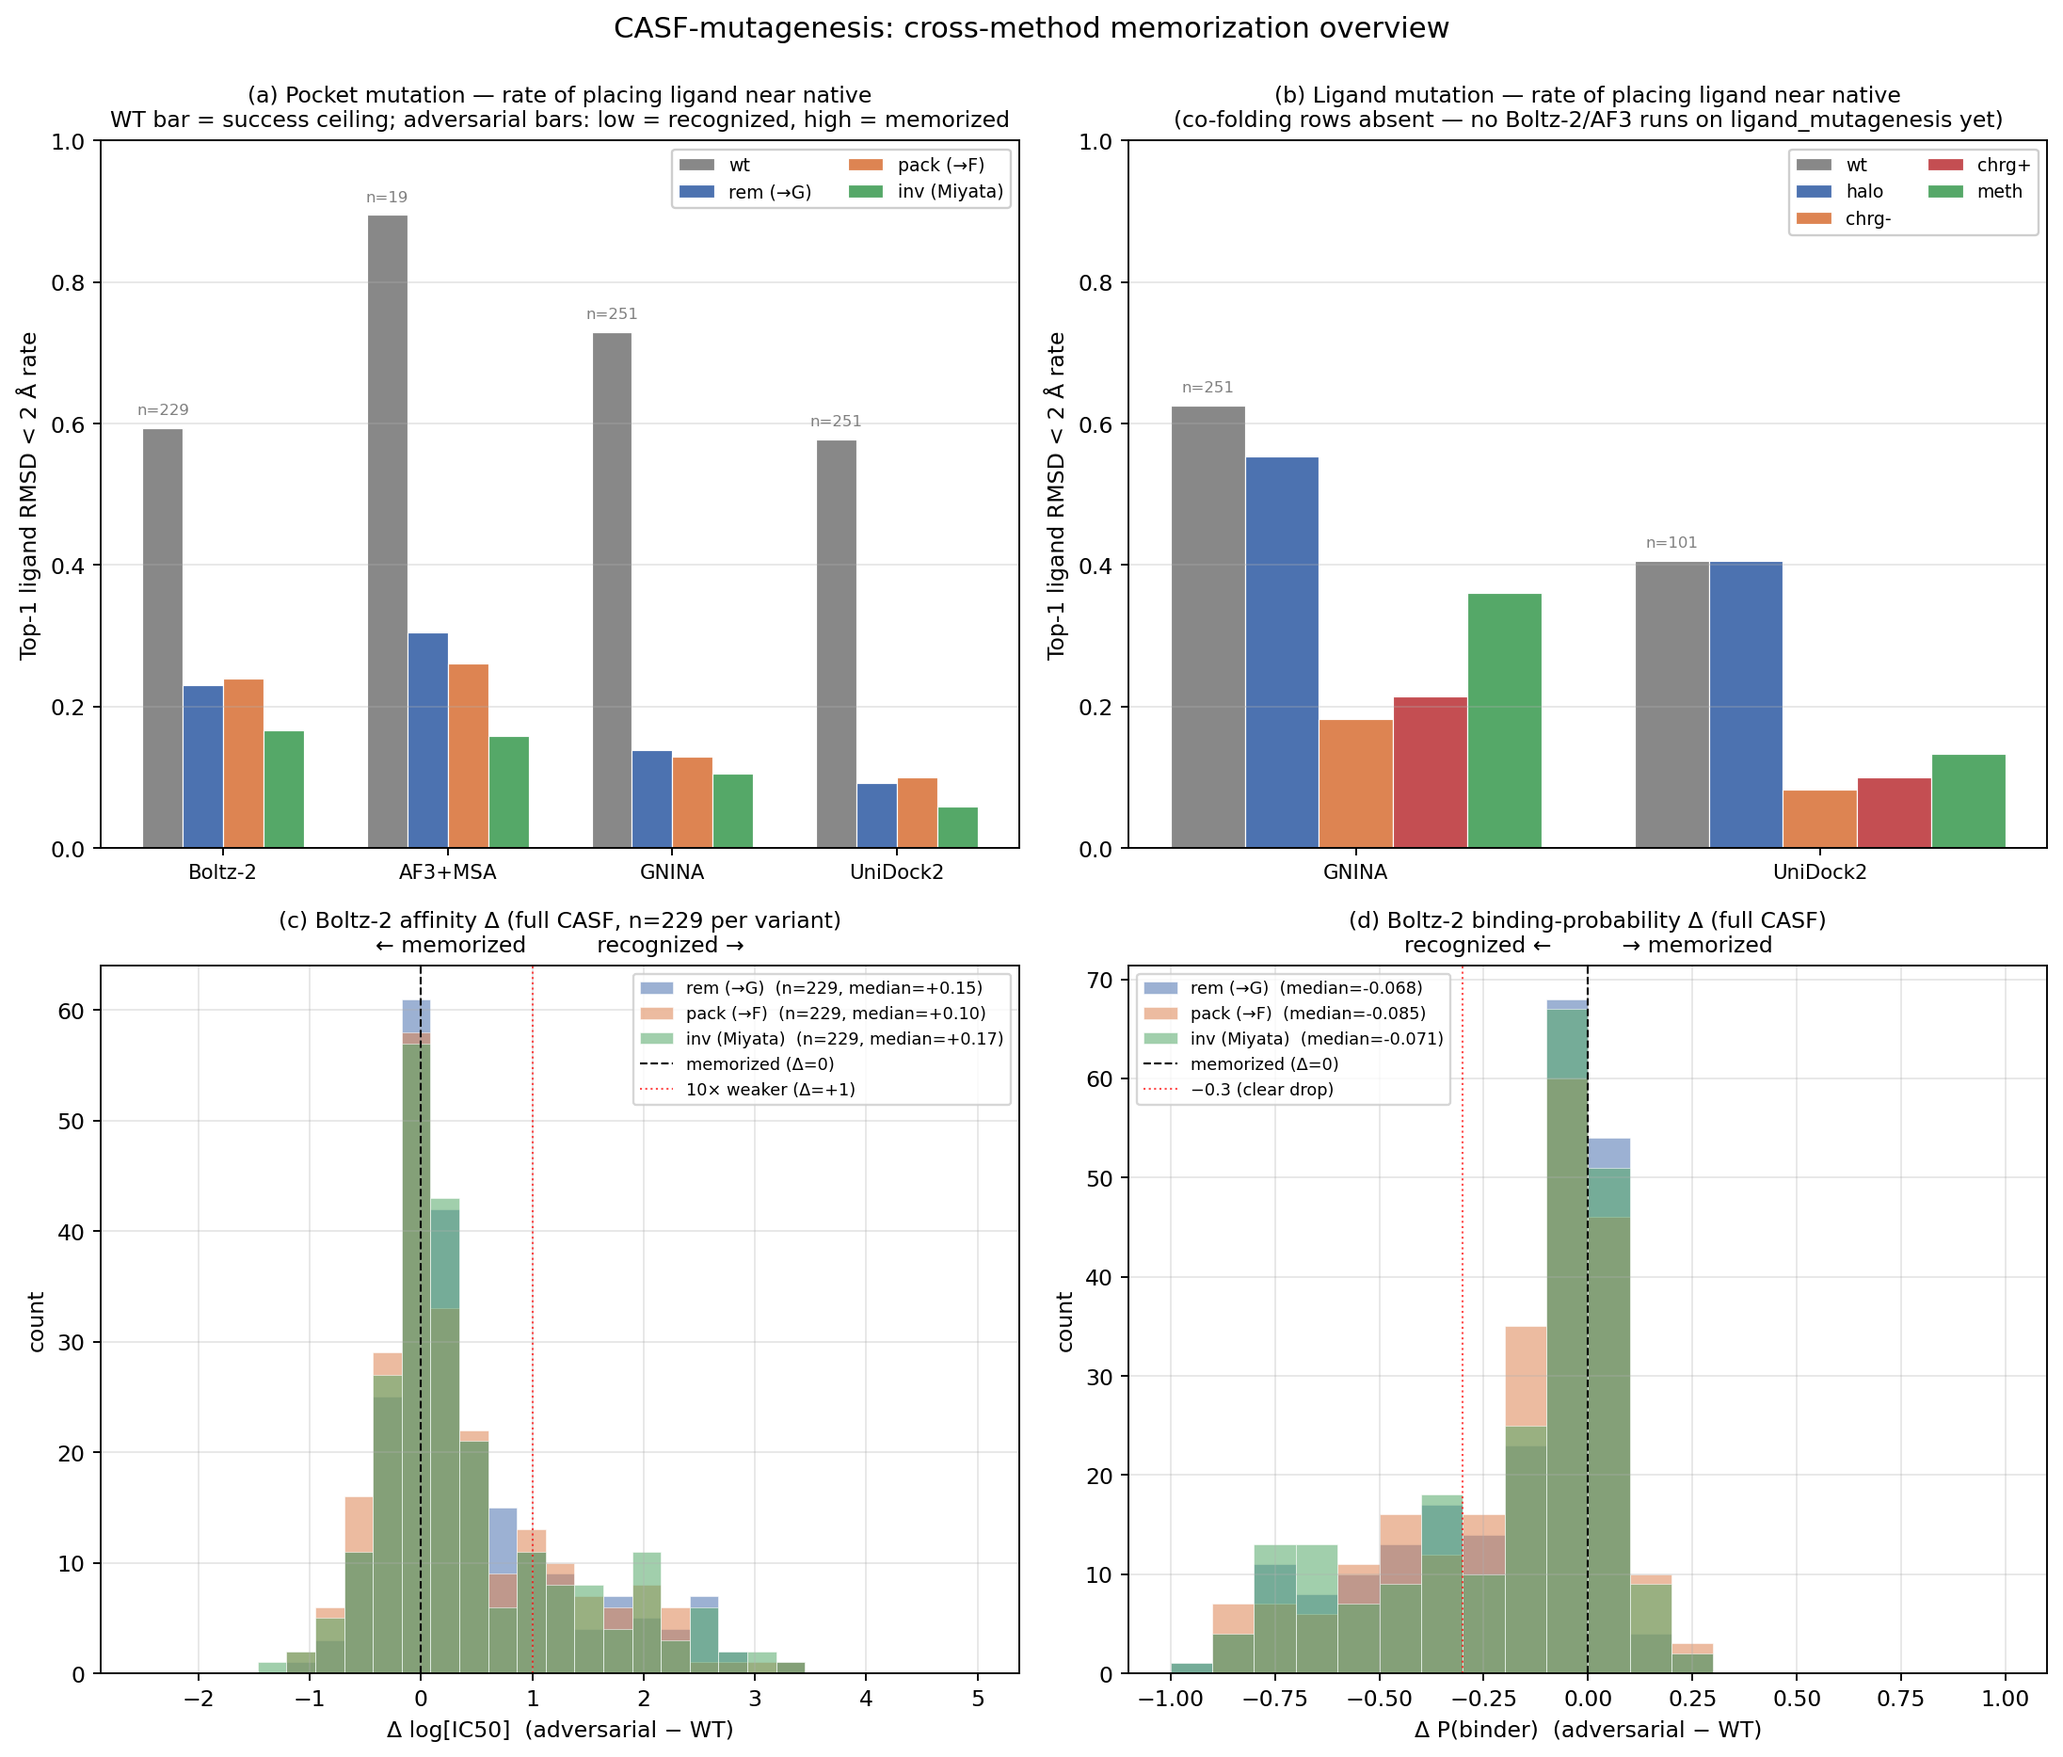
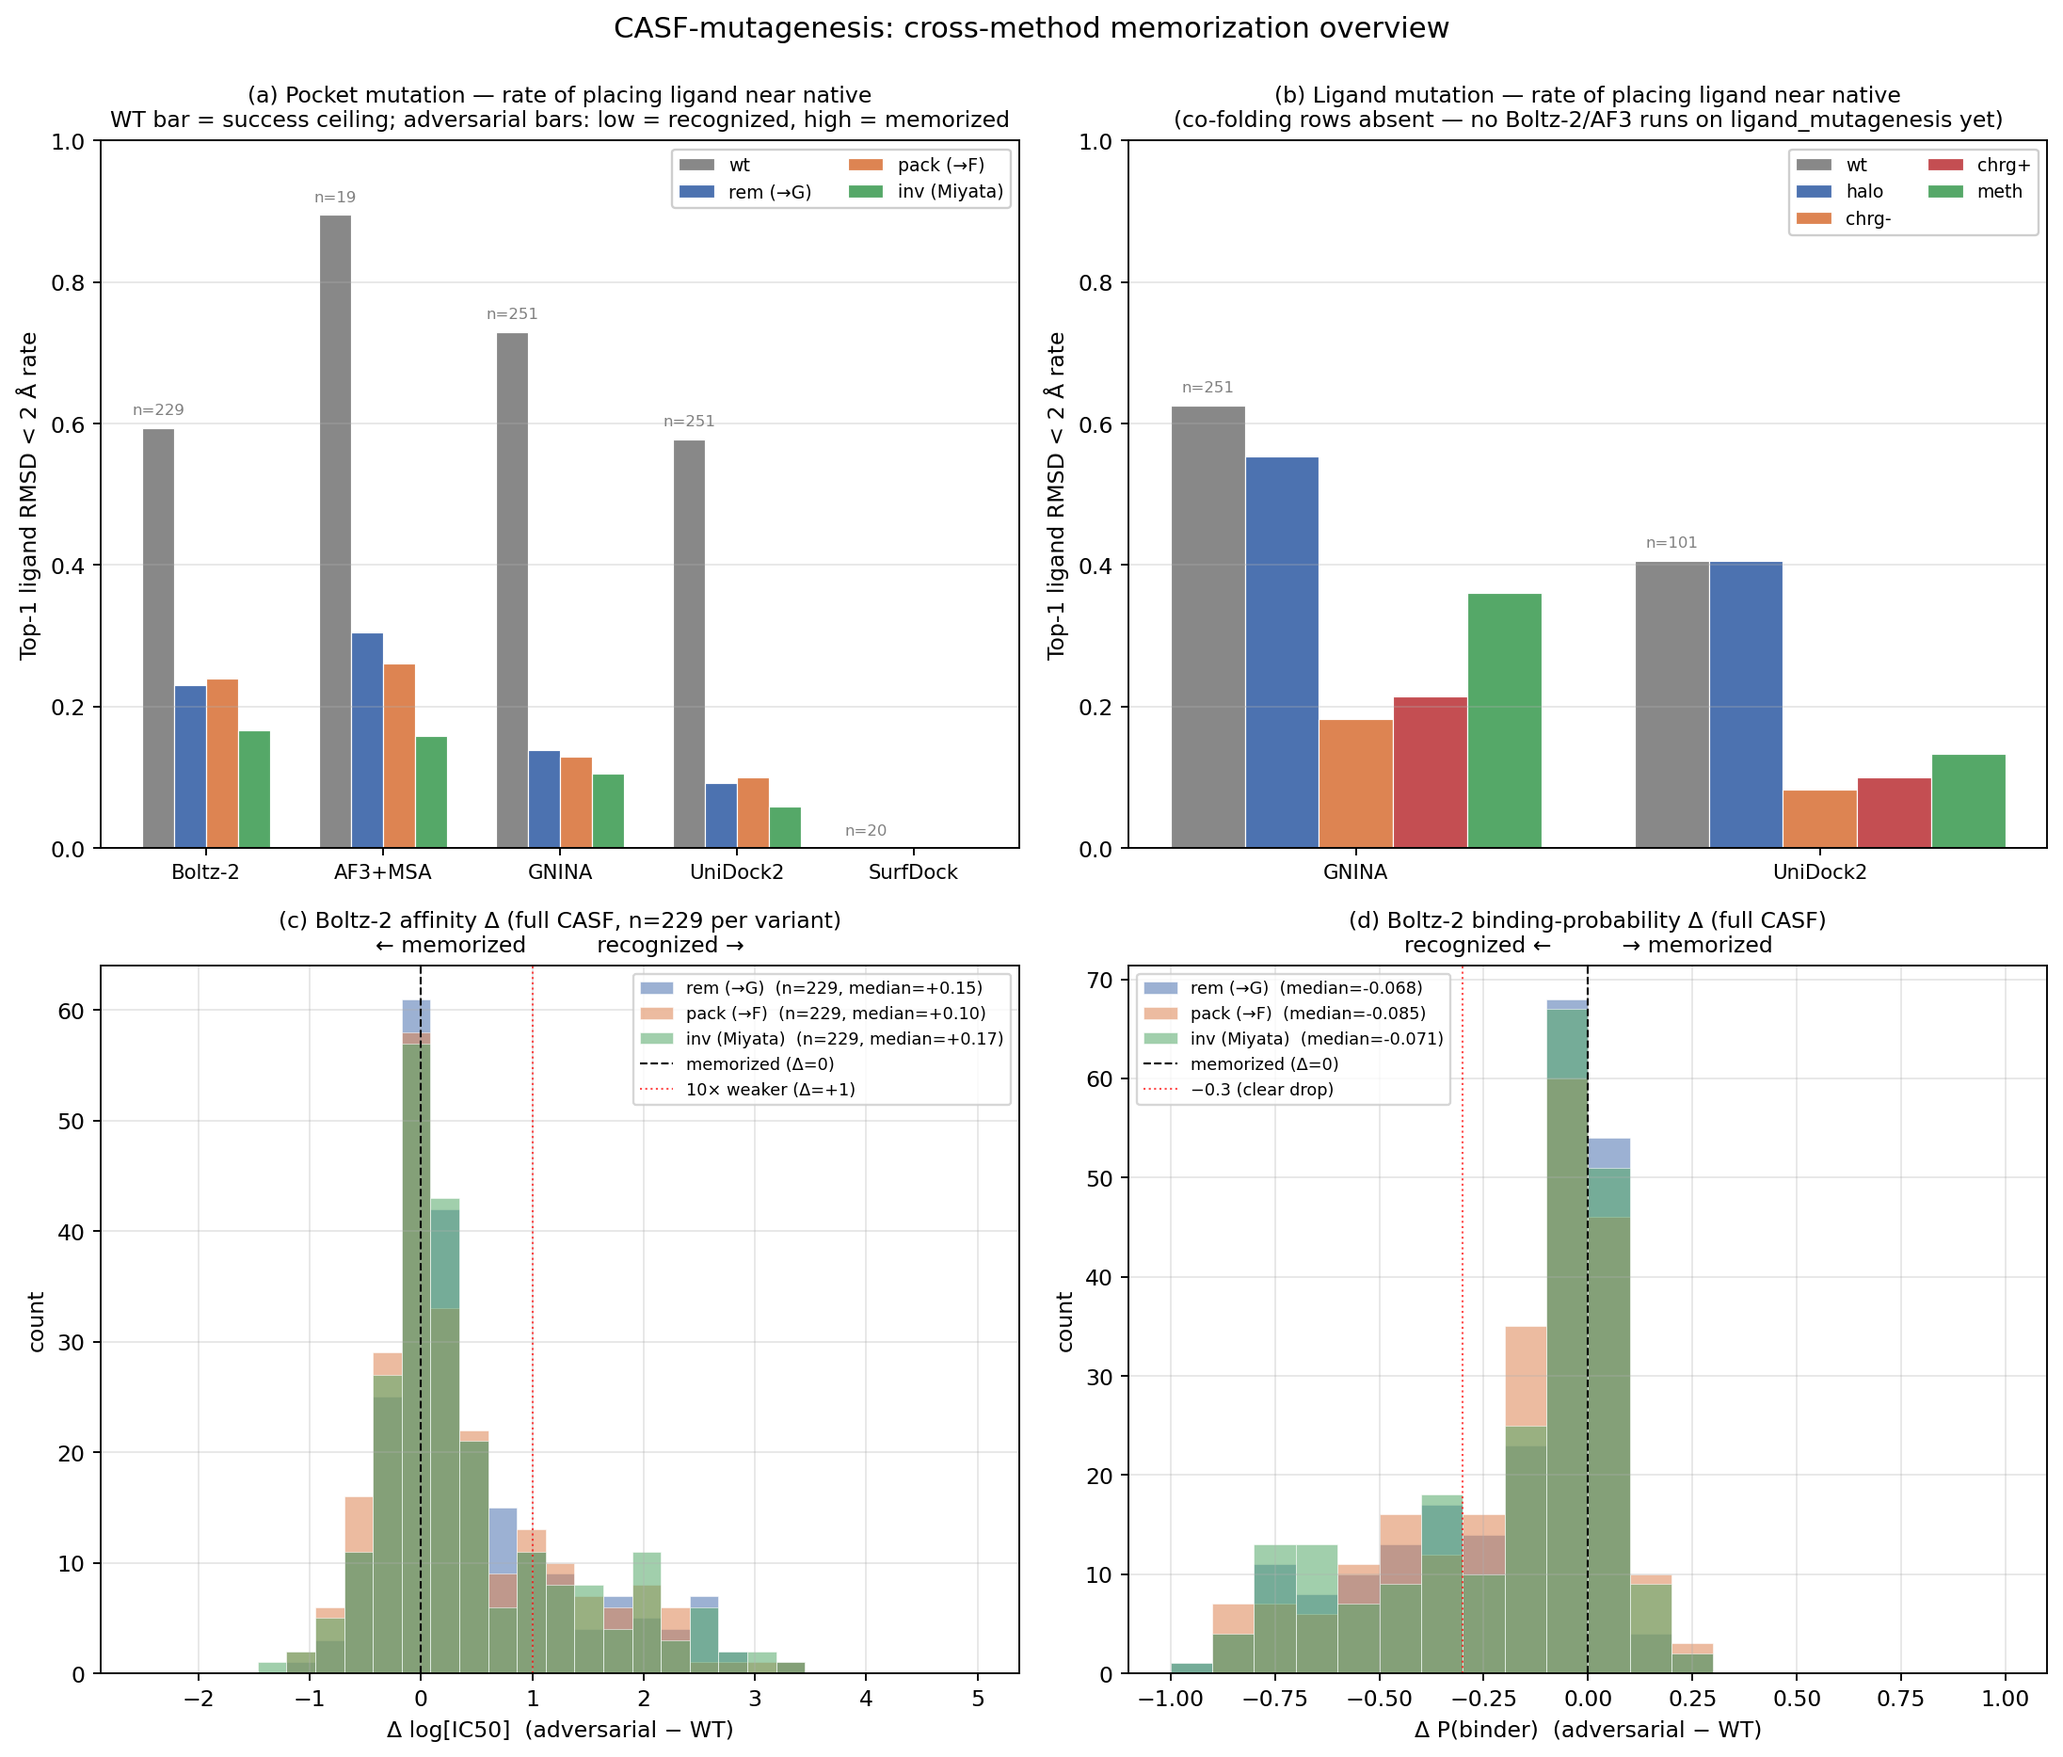
SurfDock subset20: integrate engine, refresh plot, document CASF failure
- 12_analyze_docking_engines.py: add "surfdock" to ENGINES tuple →
  docking_results.csv + docking_memorization.csv now include SurfDock
  rows (n=77 cells, casf module only).
- 13_plot_overview.py: plot SurfDock alongside GNINA/UniDock2 in
  panel (a) of overview_full.png.
- docs/casf_overview.md: extend coverage matrix; add SurfDock CASF
  failure section explaining 0/77 < 2 Å rate vs. the working CB2/MEK1
  pipeline (likely CASF excluded from SurfDock training data).

Run summary on subset20: 76/80 cells succeeded; 4 missing = 3 (3dx2
oversized, no docking inputs) + 1 (4ih7/inv RDKit-strict-parse bug on
cropped pocket PDB). Within the 77 cells with usable poses, SurfDock
got median RMSD 6-10 Å across all variants — diffusion drifted the
ligand 4-7 Å from the crystal pocket on essentially every system.

Changed region(s): [[0.062, 0.1243, 0.4964, 0.4971]]

diff --git a/analysis/casf_mutagenesis/scripts/13_plot_overview.py b/analysis/casf_mutagenesis/scripts/13_plot_overview.py
@@ -153,6 +153,8 @@ def panel_a_pocket(ax) -> None:
         methods.append(("GNINA", "dock:gnina"))
     if ("casf", "unidock2", "rem") in dock:
         methods.append(("UniDock2", "dock:unidock2"))
+    if ("casf", "surfdock", "rem") in dock:
+        methods.append(("SurfDock", "dock:surfdock"))
 
     width = 0.18
     x = np.arange(len(methods))
@@ -199,11 +201,12 @@ def panel_a_pocket(ax) -> None:
 def panel_b_ligand(ax) -> None:
     """Same as panel a but for ligand-side variants (only docking engines have data)."""
     dock = load_docking_memorization()
-    engines = ("gnina", "unidock2")
+    engines = ("gnina", "unidock2", "surfdock")
+    LABELS = {"gnina": "GNINA", "unidock2": "UniDock2", "surfdock": "SurfDock"}
     methods = []
     for eng in engines:
         if ("ligand", eng, "wt") in dock:
-            methods.append((eng.upper() if eng == "gnina" else "UniDock2", eng))
+            methods.append((LABELS[eng], eng))
 
     # collapse per ligand group: average rate, weighted by n
     def grouped_rate(eng: str, group_key: str) -> tuple[float, int]:

diff --git a/analysis/casf_mutagenesis/scripts/12_analyze_docking_engines.py b/analysis/casf_mutagenesis/scripts/12_analyze_docking_engines.py
@@ -25,7 +25,7 @@ from casf_mutagenesis.config import CASF_LIGANDS
 
 CASF_OUTPUTS = REPO_ROOT / "analysis" / "casf_mutagenesis" / "outputs"
 LIGAND_OUTPUTS = REPO_ROOT / "analysis" / "ligand_mutagenesis" / "outputs"
-ENGINES = ("gnina", "unidock2")
+ENGINES = ("gnina", "unidock2", "surfdock")
 
 
 def discover_cells() -> list[tuple[str, str, str, str, Path]]:

diff --git a/docs/casf_overview.md b/docs/casf_overview.md
@@ -14,14 +14,41 @@ For the deep dives, see the per-topic docs:
 | signal                            | Boltz-2          | AF3 (no MSA)    | AF3+MSA           | GNINA            | UniDock2         | SurfDock  |
 |-----------------------------------|------------------|-----------------|-------------------|------------------|------------------|-----------|
 | **Pocket mutation** (rem/pack/inv) | | | | | | |
-| Ligand RMSD vs crystal             | ✓ full CASF (n=229) | subset20 only (n=19) | ✓ full CASF (n=238-239) | ✓ full CASF (n=239) | ✓ full CASF (n=239) | runner ready, runs locally |
-| Confidence (iptm/ptm/rs)           | ✓                | ✓               | ✓                 | n/a              | n/a              | n/a (confidence in SDF tags) |
+| Ligand RMSD vs crystal             | ✓ full CASF (n=229) | subset20 only (n=19) | ✓ full CASF (n=238-239) | ✓ full CASF (n=239) | ✓ full CASF (n=239) | ✓ subset20 (n=76 of 80; SurfDock fails on these systems — see below) |
+| Confidence (iptm/ptm/rs)           | ✓                | ✓               | ✓                 | n/a              | n/a              | confidence in SDF tags |
 | Affinity head (log[IC50] + P)      | ✓ **full CASF**  | — (no head)     | — (no head)       | n/a              | n/a              | n/a       |
 | Best-of-5 poses                    | ✓                | ✓ (subset20)    | ✓ (subset20)      | n/a (single pose)| n/a              | ✓ (top-10) |
 | **Ligand mutation** (halo/chrg/meth) | | | | | | |
-| Ligand RMSD vs crystal             | **running** on CARC (job 8932179) | —             | —                 | ✓ subset20 (n≤251) | ✓ subset20 (n≤101) | runner ready, runs locally |
+| Ligand RMSD vs crystal             | **running** on CARC (job 8932179, ~147/1300 done) | —             | —                 | ✓ subset20 (n≤251) | ✓ subset20 (n≤101) | not yet (would extend runner to walk ligand_mutagenesis outputs) |
 | Confidence                         | will populate when 8932179 finishes | —     | —                 | n/a              | n/a              | n/a       |
 | Affinity head                      | will populate when 8932179 finishes | —     | —                 | n/a              | n/a              | n/a       |
+
+### SurfDock CASF result, briefly
+
+SurfDock (the diffusion-based docker) was integrated as a 4th docking
+engine via `analysis/casf_mutagenesis/scripts/14_run_surfdock_variants.py`.
+On subset20 it ran 76/80 cells successfully (the 4 failures: 3 oversized
+3dx2 cells with no docking inputs at all, plus 4ih7/inv hitting a
+SurfDock-internal RDKit parse bug on the cropped pocket PDB).
+
+The actual RMSD numbers were striking: SurfDock got **0/77 cells below
+2 Å** and only **3/77 below 4 Å** — even on WT. Inspecting individual
+poses showed SurfDock's diffusion drifted the ligand 4-7 Å away from the
+crystal pocket on essentially every system. The other docking engines
+(GNINA, UniDock2) succeed on the same `docking/` inputs (GNINA WT 73% < 2 Å),
+so the inputs are good — SurfDock just fails on these CASF systems. The
+16-case CB2/MEK1 SurfDock data the user previously generated worked fine,
+so the install + pipeline are correct. The hypothesis is that CASF-2016
+sits outside SurfDock's training distribution despite both deriving from
+PDBbind — CASF is the standard held-out benchmark, which SurfDock training
+likely excluded.
+
+This is itself a useful finding — SurfDock is not a reliable substitute
+for Vina-family docking on novel CASF-style binding sites. But it means
+the SurfDock numbers in panel (a) of the cross-method figure should
+NOT be read as "all docking methods agree" — they're really "SurfDock
+fails on every variant, including WT, so its WT-vs-adversarial gap is
+ambiguous."
 
 ✓ = results on disk. — = not run. n/a = method doesn't produce that signal.
 
